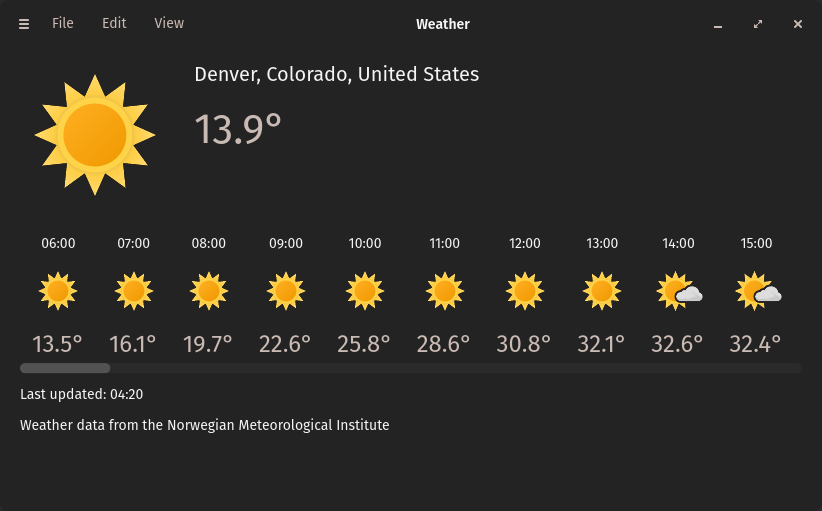
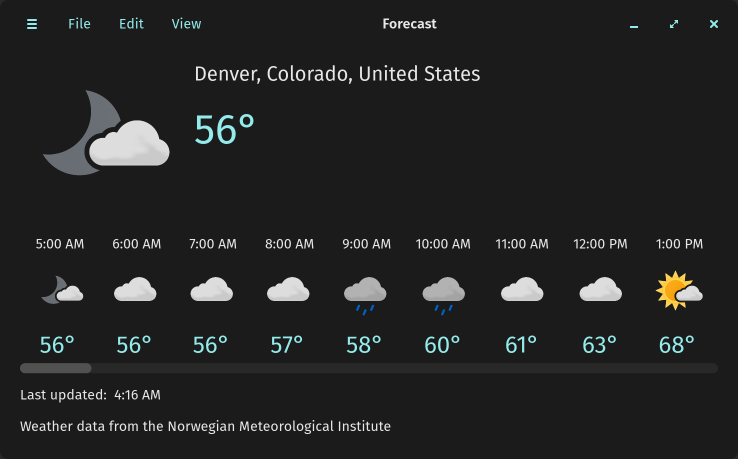
Update screenshot

diff --git a/README.md b/README.md
@@ -1,5 +1,5 @@
 <div align="center">
-  <img src="res/icons/hicolor/scalable/apps/com.jwestall.Weather.svg">
+  <img src="res/icons/hicolor/scalable/apps/com.jwestall.Forecast.svg">
   <h1>Forecast</h1>
   <p>A simple weather application for the COSMIC™ Desktop</p>
   <img src="screenshots/window.png"></img>
